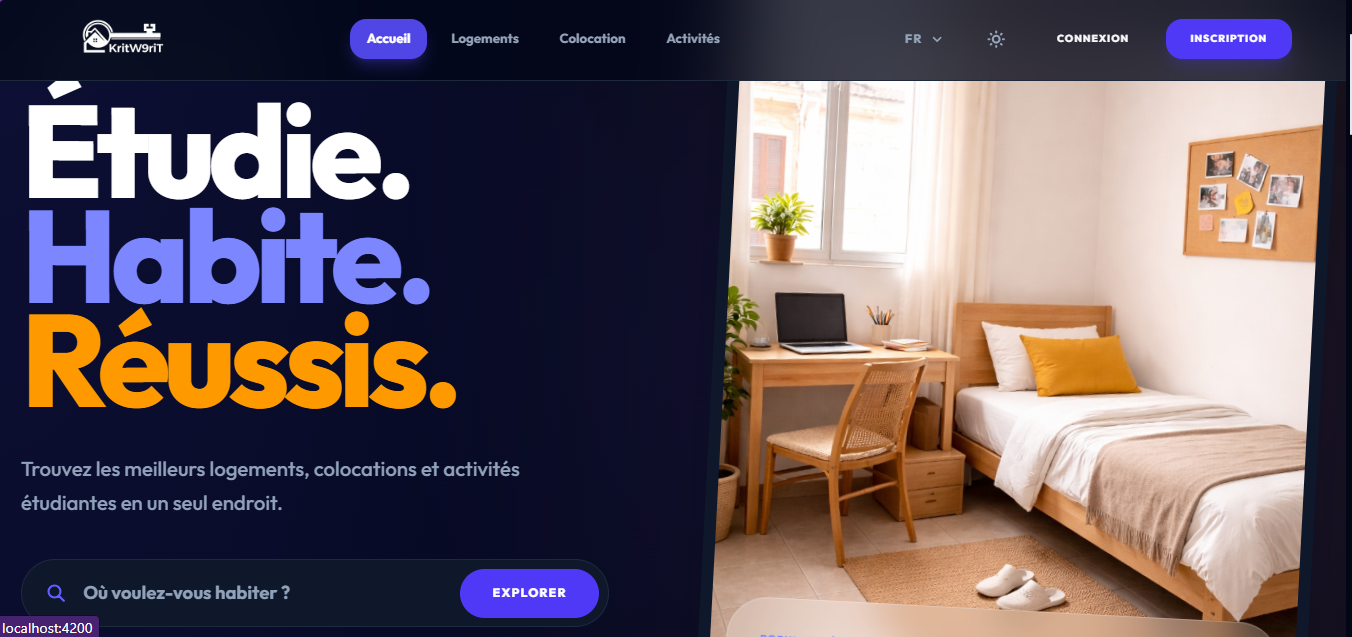
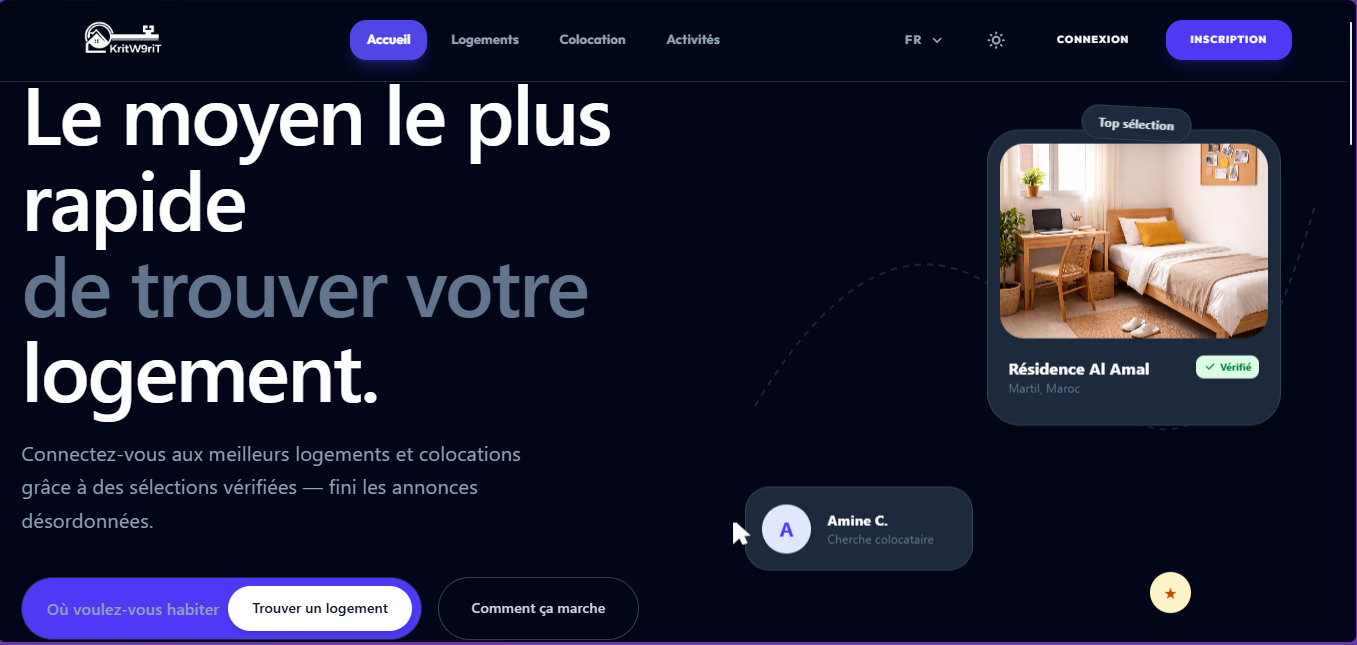
editing a project

diff --git a/src/app/components/projects/projects.component.ts b/src/app/components/projects/projects.component.ts
@@ -41,7 +41,7 @@ import { ThemeService } from '../../services/theme.service';
                  (mouseenter)="hoveredIndex = i"
                  (mouseleave)="hoveredIndex = null"
                  (click)="openLightbox(i)">
-              
+
               <div class="relative z-10 flex flex-col md:flex-row md:items-center justify-between gap-12">
                 <div class="flex items-center gap-16">
                   <span class="font-mono text-xs opacity-20 group-hover:opacity-100 group-hover:text-blue-500 transition-all duration-300">0{{ i + 1 }}</span>
@@ -82,10 +82,10 @@ import { ThemeService } from '../../services/theme.service';
         <div class="fixed inset-0 z-[100] flex items-center justify-center p-6 animate-fadeIn"
              (click)="closeLightbox()">
           <div class="absolute inset-0 bg-slate-950/98 backdrop-blur-2xl"></div>
-          
+
           <div class="relative w-full max-w-[90vw] h-[90vh] bg-slate-900 border border-white/10 rounded-xl overflow-hidden flex flex-col md:flex-row"
                (click)="$event.stopPropagation()">
-            
+
             <!-- Left Side: Full Gallery -->
             <div class="w-full md:w-2/3 h-full bg-black overflow-y-auto p-12 custom-scrollbar">
               <div class="flex flex-col gap-8">
@@ -137,7 +137,7 @@ import { ThemeService } from '../../services/theme.service';
     .custom-scrollbar::-webkit-scrollbar { width: 4px; }
     .custom-scrollbar::-webkit-scrollbar-track { background: transparent; }
     .custom-scrollbar::-webkit-scrollbar-thumb { background: rgba(59, 130, 246, 0.2); border-radius: 2px; }
-    
+
     @keyframes gradient-x {
       0%, 100% { background-position: 0% 50%; }
       50% { background-position: 100% 50%; }
@@ -189,13 +189,12 @@ export class ProjectsComponent {
       title: 'KritW9rit',
       folderName: 'KritW9rit',
       images: [
-        '1.png', '2.PNG', '3.PNG', '4.PNG', '5.PNG', '6.PNG', '7.PNG', '8.PNG', '10.PNG', '11.PNG',
+        '1.PNG', '3.PNG', '4.PNG', '5.PNG',
         'admin/1.PNG', 'admin/2.PNG', 'admin/3.PNG', 'admin/4.PNG', 'admin/5.PNG', 'admin/6.PNG', 'admin/7.PNG', 'admin/8.PNG',
         'owner/1.PNG', 'owner/2.PNG', 'owner/3.PNG', 'owner/4.PNG', 'owner/5.PNG',
-        'student/1.PNG', 'student/3.PNG', 'student/5.PNG', 'student/6.PNG', 'student/7.PNG', 'student/8.PNG', 'student/9.PNG', 'student/10.PNG',
-        'student/12.PNG', 'student/13.PNG', 'student/14.PNG', 'student/15.PNG', 'student/16.PNG', 'student/17.PNG', 'student/18.PNG', 'student/19.PNG',
-        'student/20.PNG', 'student/21.PNG', 'student/22.PNG', 'student/23.PNG', 'student/24.PNG', 'student/25.PNG', 'student/26.PNG', 'student/27.PNG',
-        'student/28.PNG', 'student/30.PNG', 'student/31.PNG', 'student/32.PNG', 'student/33.PNG', 'student/34.PNG', 'student/35.PNG', 'student/36.PNG'
+        'student/3.PNG', 'student/10.PNG', 'student/13.PNG', 'student/14.PNG', 'student/17.PNG', 'student/18.PNG', 'student/19.PNG', 'student/20.PNG',
+        'student/21.1.png', 'student/23.PNG', 'student/24.PNG', 'student/25.PNG', 'student/26.PNG', 'student/27.PNG', 'student/28.PNG',
+        'student/30.PNG', 'student/31.PNG', 'student/32.PNG', 'student/33.PNG', 'student/34.PNG', 'student/35.PNG', 'student/36.PNG'
       ],
       description: 'End-to-end development of a comprehensive Moroccan student platform, built from scratch. Architected the entire system, selected the technical stack, and implemented core features including instant messaging, security, and scaling infrastructure.',
       technologies: ['Node.js', 'Express', 'Angular', 'MongoDB', 'JWT', 'Socket.io']